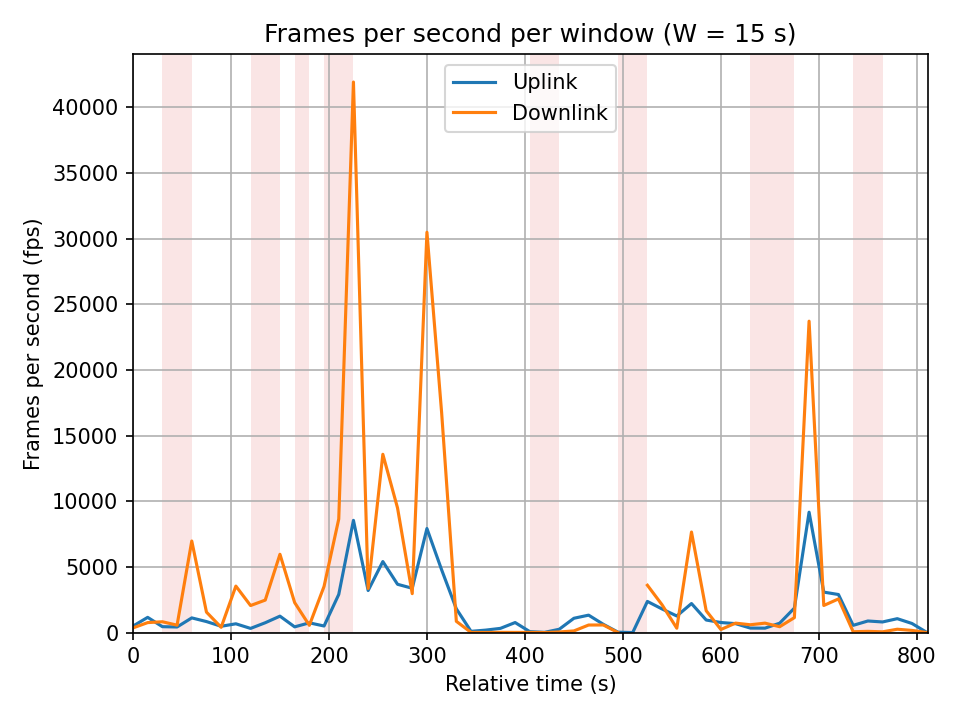
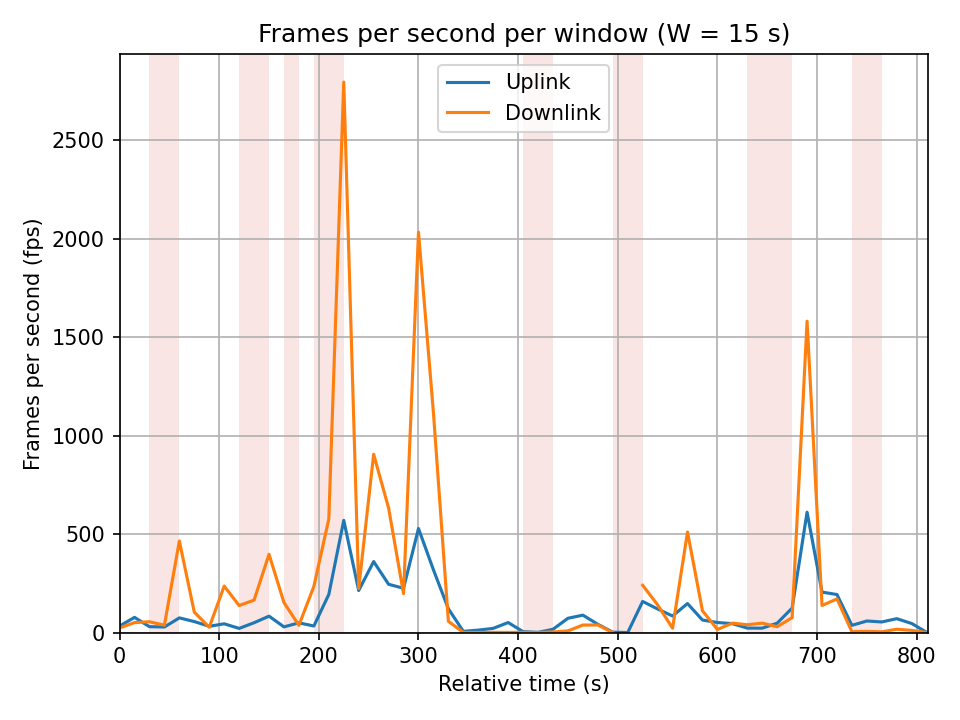
Updated README and fixed img

Changed region(s): [[0.0625, 0.0306, 0.9375, 0.9778], [0.4062, 0.0917, 0.4688, 0.2444]]

diff --git a/src/plots.py b/src/plots.py
@@ -178,7 +178,7 @@ x = wide["t_rel_start"].values
 x_end = t_max - t0
 
 lineplot(x,
-         [wide["mbps_Uplink"]*W, wide["mbps_Downlink"]*W],
+         [wide["mbps_Uplink"], wide["mbps_Downlink"]],
          ["Uplink","Downlink"],
          f"Throughput per window (W = {W} s)",
          "Throughput (Mb/s)",
@@ -186,7 +186,7 @@ lineplot(x,
          ylim0=True, x_end=x_end)
 
 lineplot(x,
-         [wide["pps_Uplink"]*W, wide["pps_Downlink"]*W],
+         [wide["pps_Uplink"], wide["pps_Downlink"]],
          ["Uplink","Downlink"],
          f"Frames per second per window (W = {W} s)",
          "Frames per second (fps)",

diff --git a/README.md b/README.md
@@ -40,14 +40,22 @@ wifi-traffic-classification/
 │   ├── plot_pkt_size_avg_W15.png
 │   ├── plot_pps_W15.png
 │   ├── plot_rssi_W15.png
+│   ├── plot_snr_W15.png
+│   ├── plot_qos_composition_W15.png
+│   ├── confusion_matrix_W15.png
 │   └── plot_throughput_W15.png
+│
+├── model/
+│   ├── features_labeled_W15.csv
+│   ├── labels_by_time_W15.csv
+│   └── features_W15.pcapng
+│
+├── src/
+│   └── plots.py
 │
 ├── private/
 │   ├── traffic.csv
 │   └── capture.pcapng
-│
-├── src/
-│   └── plots.py
 │
 └── requirements.txt
 ```
@@ -72,7 +80,7 @@ tshark -r ./private/capture.pcapng \
   -e wlan.fc.pwrmgt \
   -e radiotap.dbm_antsignal \
   -e wlan.qos.priority \
-  -e 
+  -e wlan_radio.snr \
 > ./private/traffic.csv
 ```
 
@@ -109,12 +117,18 @@ The traffic classes considered in this work are streaming, web browsing, idle, a
 ## Results
 For the first part, the plots generated provide initial insight regarding the RSSI and the SNR, just to be sure that the test is mostly valid. As plotted, the RSSI and the SNR are not only in the expected range, but also strictly correlated. This highlights the absence of noise during this experiment.
 ### Signal strenght
-![](/img/plot_rssi_W15.png) ![](/img/plot_snr_W15.png)
+
+| RSSI                  | SNR                   |
+| ----------------------------------- | ----------------------------------- |
+| ![ps](/img/plot_rssi_W15.png) | ![fps](/img/plot_snr_W15.png)   |
+
 
 ### Throughput and Frames per second
 The plots regarding the frames captured all highlight in red the areas where the station transceiver was off most of the time.
 
-![](/img/plot_fps_W15.png) ![](/img/plot_frame_size_avg_W15.png) ![](/img/plot_throughput_W15.png)
+| Average frame size                  | Frames per second                   | Throughput                          |
+| ----------------------------------- | ----------------------------------- | ----------------------------------- |
+| ![ps](/img/plot_frame_size_avg_W15.png) | ![fps](/img/plot_fps_W15.png)   | ![thr](/img/plot_throughput_W15.png)  |
 
 Starting the analysis from frames per second, frame size, and their obvious consequence, throughput:
 
@@ -122,5 +136,4 @@ Starting the analysis from frames per second, frame size, and their obvious cons
 
 - **Average frame size:** Downlink frames are generally much larger than uplink ones, with consistent sizes above 1,000 bytes during high-traffic periods, while uplink traffic remains small and stable.
 
-- **Throughput:** Traffic is heavily dominated by downlink, with bursts up to ~500 Mb/s in short intervals. During sleep phases, throughput collapses close to zero, showing the strong impact of power-saving states on data transfer.
-
+- **Throughput:** Traffic is heavily dominated by downlink, with bursts up to ~30 Mb/s in short intervals. During sleep phases, throughput collapses close to zero, showing the strong impact of power-saving states on data transfer.
